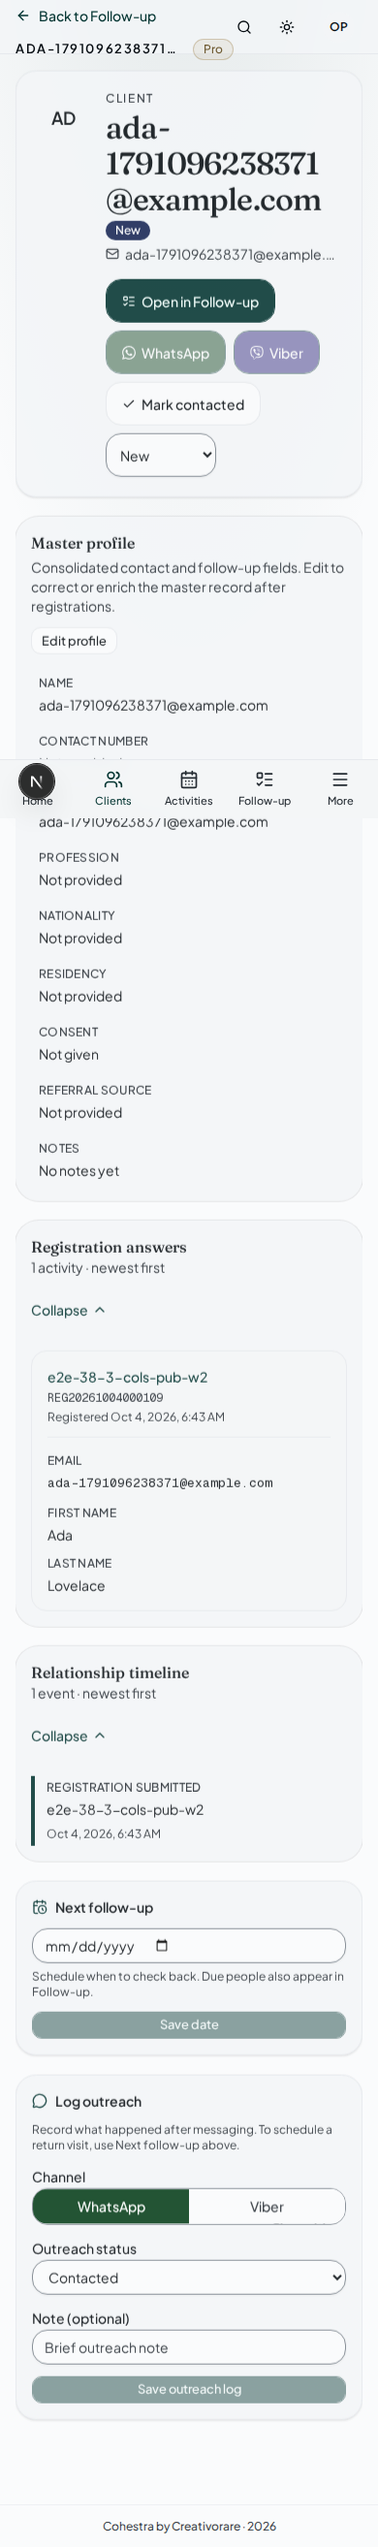
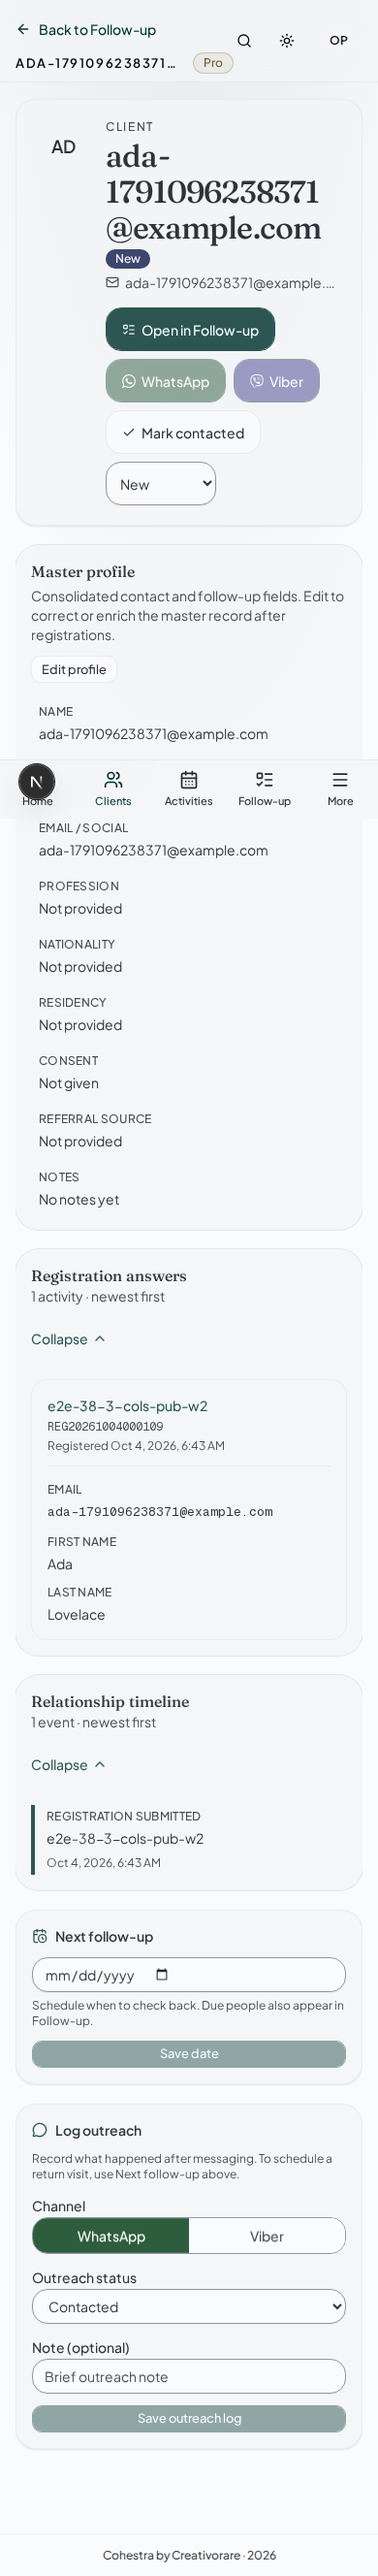
fix(40.5): let the mobile top bar grow around named Back
A fixed h-14 chrome row cannot hold a 44px Back plus the page title.
Use min-h-14 on small viewports and assert the Back target stays inside
the header.

diff --git a/web/e2e/continuity-40-5.spec.ts b/web/e2e/continuity-40-5.spec.ts
@@ -342,6 +342,15 @@ test.describe("Story 40.5 — cross-module continuity", () => {
       expect(box, `${viewport.name} Back target`).toBeTruthy();
       expect(box!.width).toBeGreaterThanOrEqual(44);
       expect(box!.height).toBeGreaterThanOrEqual(44);
+      const headerBox = await page.locator("header").first().boundingBox();
+      expect(headerBox, `${viewport.name} top bar`).toBeTruthy();
+      expect(box!.y, `${viewport.name} Back clipped above bar`).toBeGreaterThanOrEqual(
+        headerBox!.y - 1
+      );
+      expect(
+        box!.y + box!.height,
+        `${viewport.name} Back clipped below bar`
+      ).toBeLessThanOrEqual(headerBox!.y + headerBox!.height + 1);
       await expect(
         page
           .getByRole("navigation", { name: "Breadcrumb" })

diff --git a/web/components/layouts/admin-top-bar.tsx b/web/components/layouts/admin-top-bar.tsx
@@ -44,7 +44,7 @@ export function AdminTopBar() {
   const pageTitle = pageMeta?.title ?? currentLabel;
 
   return (
-    <header className="sticky top-0 z-20 flex h-14 shrink-0 items-center gap-3 border-b border-border-warm bg-card/80 px-4 backdrop-blur-md md:px-6">
+    <header className="sticky top-0 z-20 flex min-h-14 shrink-0 items-center gap-3 border-b border-border-warm bg-card/80 px-4 py-2 backdrop-blur-md md:h-14 md:py-0 md:px-6">
       <div className="flex min-w-0 flex-1 flex-col justify-center gap-0.5">
         {breadcrumbs.length > 1 ? (
           <AdminBreadcrumbs items={breadcrumbs} className="flex min-w-0" />

diff --git a/_bmad-output/planning-artifacts/evidence/px2-40-5/a11y.md b/_bmad-output/planning-artifacts/evidence/px2-40-5/a11y.md
@@ -9,7 +9,7 @@ Verified live on the default tenant.
 | Skip link | Present; reduced-motion Follow-up still has it |
 | Breadcrumb `nav` name | `aria-label="Breadcrumb"` |
 | Current crumb | Text + `aria-current="page"`, not an active link |
-| 390 / 430 / 767 Back | `Back to Follow-up`, ≥44×44, no document overflow. Desktop crumb list stays `md:` (768+) |
+| 390 / 430 / 767 Back | `Back to Follow-up`, ≥44×44, stays inside the top bar (`min-h-14` + mobile padding). Desktop crumb list stays `md:` (768+) |
 | 768 / 1024 / 1440 | Semantic ordered list, named Follow-up link, no overflow |
 | Palette | Story 38.6 trap / Escape / focus return still pass |
 | Axe serious/critical on Client 1440 | None |
